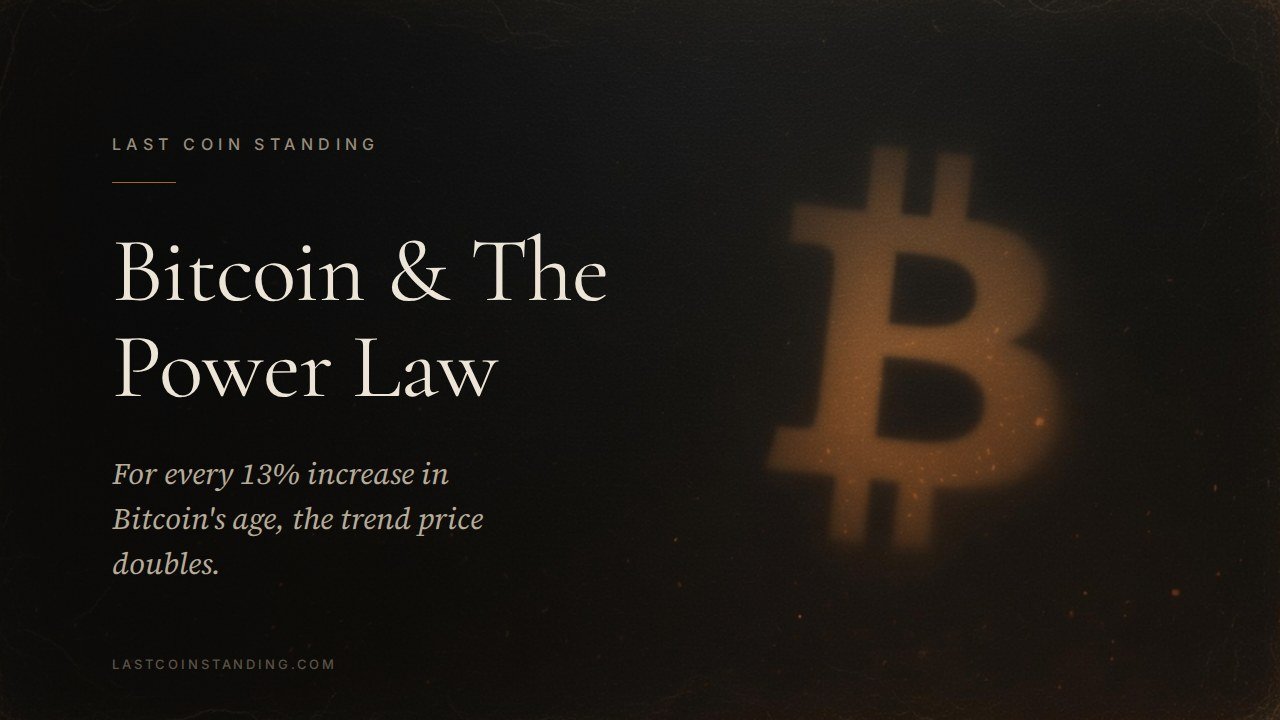
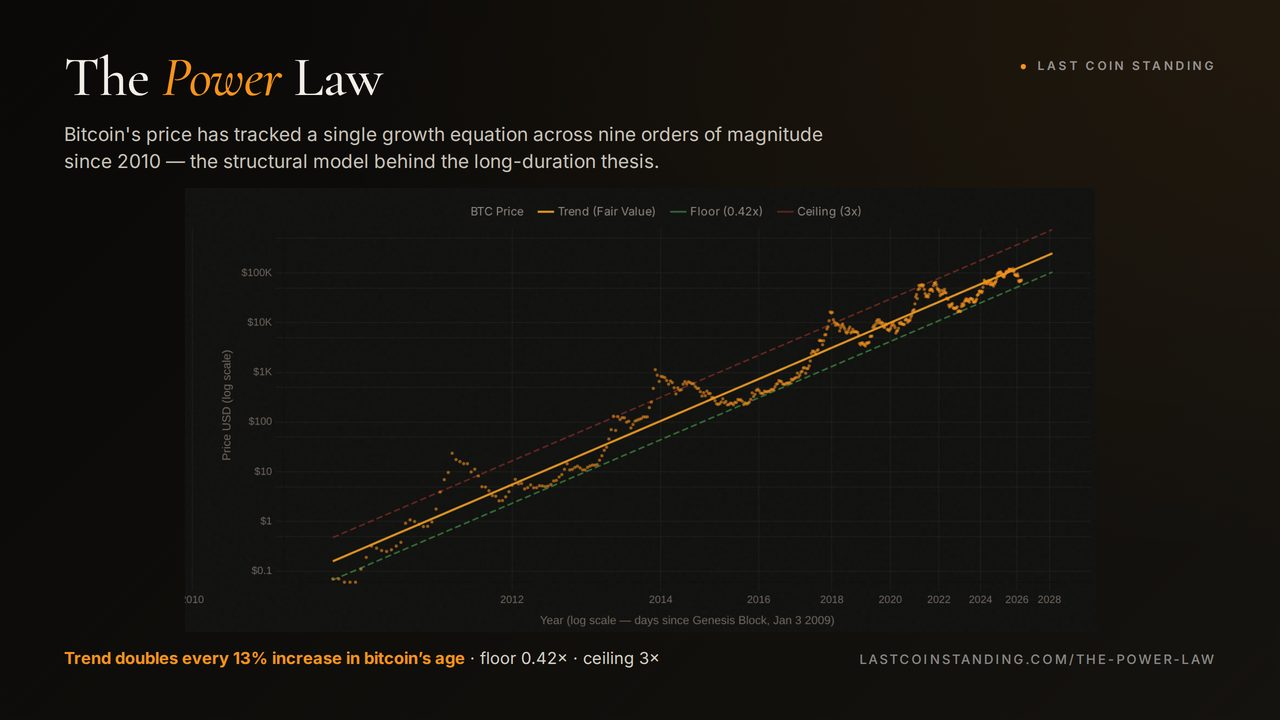
OG cards: 4 product-forward upgrades + LoB meta + cleanup
JM going on an x.com Space later today. Audit found one real gap (LoB
missing og:image entirely) plus three pages JM specifically wanted
upgraded from brand-forward to product-forward (data-card) cards to
match the Heatmap and Bitcoin-vs-Stock-Market treatment. Bitcoin
Retirement was on the original shortlist but turned out to already be
product-forward (the build script's existing card list), so dropped
from this commit.

NEW PRODUCT-FORWARD OG CARDS (4)

og-the-power-law.jpg
  Hero: #powerLawChart — the canonical log-log Power Law channel chart
  with 15 years of price data, regression line, floor (0.42×), and
  ceiling (3×) corridors. Subtitle frames the structural thesis.
  Stats line: "Trend doubles every 13% increase in bitcoin's age ·
  floor 0.42× · ceiling 3×".

og-bitcoin-vs-real-estate.jpg
  Hero: #eraBarChart — five monetary eras of home-price-to-income
  ratio from gold standard (~2×) through late fiat (~5×), with a
  "2025 → ?" red placeholder. Green sound-money / yellow transition /
  red fiat color story reads instantly.
  Stats line: "1890–2025 · home-price-to-income across five monetary
  eras".
  NOTE: requires clicking Tab IV (Affordability Crisis) before
  screenshot — see click_before_capture below.

og-living-on-bitcoin.jpg
  Hero: #lobChart — the calculator's BTC float vs USD float chart
  with the drawdown-stress-test dashed line dipping at year 3 and
  recovering by year 5. Shows the daily-practice case at five-year
  horizon.
[…]

diff --git a/src/_includes/_pageassets/living-on-bitcoin-head.html b/src/_includes/_pageassets/living-on-bitcoin-head.html
@@ -13,9 +13,16 @@
 <meta property="og:url" content="https://lastcoinstanding.com/living-on-bitcoin.html">
 <meta property="og:title" content="Living on Bitcoin — Last Coin Standing">
 <meta property="og:description" content="Holding operating cash in bitcoin and paying fiat bills as they come due. A values-aligned practice with modest economics and real friction.">
+<meta property="og:image" content="https://lastcoinstanding.com/og-living-on-bitcoin.jpg">
+<meta property="og:image:width" content="1280">
+<meta property="og:image:height" content="720">
+<meta property="og:image:type" content="image/jpeg">
+<meta property="og:image:alt" content="BTC operating-cash float vs. USD baseline over five years — BTC grows along the Power Law trend, USD stays flat, and the drawdown-stress-test line dips and recovers.">
 <meta name="twitter:card" content="summary_large_image">
 <meta name="twitter:title" content="Living on Bitcoin — Last Coin Standing">
 <meta name="twitter:description" content="Holding operating cash in bitcoin and paying fiat bills as they come due. A values-aligned practice with modest economics and real friction.">
+<meta name="twitter:image" content="https://lastcoinstanding.com/og-living-on-bitcoin.jpg">
+<meta name="twitter:image:alt" content="BTC operating-cash float vs. USD baseline over five years — Power Law projection with drawdown stress test.">
 <link rel="preconnect" href="https://fonts.googleapis.com">
 <link rel="preconnect" href="https://fonts.gstatic.com" crossorigin>
 <link href="https://fonts.googleapis.com/css2?family=Cormorant+Garamond:ital,wght@0,400;0,500;0,600;0,700;1,400;1,500&family=Inter:ital,wght@0,400;0,500;0,600;0,700;1,400;1,500&family=Source+Serif+4:ital,wght@1,400&display=swap" rel="stylesheet">

diff --git a/scripts/build-og-images.py b/scripts/build-og-images.py
@@ -318,6 +318,88 @@ CARDS = [
         },
         "output_filename": "og-calculators.jpg",
     },
+    {
+        "name": "power-law",
+        "url": "https://lastcoinstanding.com/the-power-law",
+        "hero_selector": "#powerLawChart",
+        "wait_after_navigate_ms": 1500,
+        "wait_after_scroll_ms": 3500,
+        "chrome": {
+            "title": "The ",
+            "titleAccent": "Power",
+            "titleAfter": " Law",
+            "subtitle": "Bitcoin's price has tracked a single growth equation across nine orders of magnitude since 2010 — the structural model behind the long-duration thesis.",
+            "statsHTML": (
+                '<strong style="color:#F7931A; font-weight:700;">Trend doubles every 13% increase in bitcoin&rsquo;s age</strong>'
+                '  ·  floor 0.42&times;  ·  ceiling 3&times;'
+            ),
+            "urlText": "lastcoinstanding.com/the-power-law",
+        },
+        "output_filename": "og-the-power-law.jpg",
+    },
+    {
+        "name": "bvre",
+        "url": "https://lastcoinstanding.com/bitcoin-vs-real-estate",
+        "hero_selector": "#eraBarChart",
+        # eraBarChart sits inside the "Affordability Crisis" tab (Tab IV), not
+        # the default. Click that tab first to make the panel visible.
+        "click_before_capture": "button.tab-btn[data-tab='crisis']",
+        "wait_after_navigate_ms": 1500,
+        "wait_after_scroll_ms": 3500,
+        "chrome": {
+            "title": "",
+            "titleAccent": "Bitcoin",
+            "titleAfter": " vs. Real Estate",
+            "subtitle": "135 years of US housing affordability — and what changed when the dollar&rsquo;s monetary regime did. Homes priced in real money tell a different story.",
+            "statsHTML": (
+                '<strong style="color:#F7931A; font-weight:700;">1890–2025</strong>'
+                '  ·  home-price-to-income across five monetary eras'
+            ),
+            "urlText": "lastcoinstanding.com/bitcoin-vs-real-estate",
+        },
+        "output_filename": "og-bitcoin-vs-real-estate.jpg",
+    },
+    {
+        "name": "lob",
+        "url": "https://lastcoinstanding.com/living-on-bitcoin",
+        "hero_selector": "#lobChart",
+        # lobChart sits inside the "Calculator" tab (Tab III), not the default.
+        # Click that tab first to make the panel visible.
+        "click_before_capture": "button.tab-btn[data-tab='calculator']",
+        "wait_after_navigate_ms": 1500,
+        "wait_after_scroll_ms": 3500,
+        "chrome": {
+            "title": "Living on ",
+            "titleAccent": "Bitcoin",
+            "titleAfter": "",
+            "subtitle": "Holding operating cash in bitcoin and paying fiat bills as they come due — modest economics, real friction, and the psychological payoff.",
+            "statsHTML": (
+                '<strong style="color:#F7931A; font-weight:700;">Power Law projection</strong>'
+                '  ·  BTC float vs. USD float  ·  drawdown stress test'
+            ),
+            "urlText": "lastcoinstanding.com/living-on-bitcoin",
+        },
+        "output_filename": "og-living-on-bitcoin.jpg",
+    },
+    {
+        "name": "bbm",
+        "url": "https://lastcoinstanding.com/bitcoin-backed-mortgages",
+        "hero_selector": "#bbmWealthChart",
+        "wait_after_navigate_ms": 1500,
+        "wait_after_scroll_ms": 3500,
+        "chrome": {
+            "title": "Bitcoin-Backed ",
+            "titleAccent": "Mortgages",
+            "titleAfter": "",
+            "subtitle": "Pledge bitcoin instead of selling it to fund a home down-payment — Fannie-Mae-conforming, no margin call, and when it may make sense.",
+            "statsHTML": (
+                '<strong style="color:#F7931A; font-weight:700;">Pledge vs. Sell</strong>'
+                '  ·  cumulative cost over time  ·  crossover marked'
+            ),
+            "urlText": "lastcoinstanding.com/bitcoin-backed-mortgages",
+        },
+        "output_filename": "og-bitcoin-backed-mortgages.jpg",
+    },
 ]
 
 
@@ -349,6 +431,15 @@ def build_card(page, card_config: dict, output_path: Path) -> None:
         raise RuntimeError(
             f"hero selector not found on page: {card_config['hero_selector']}")
     page.wait_for_timeout(card_config["wait_after_navigate_ms"])
+
+    # Optional: click an element before capture (e.g. a tab button to reveal
+    # the hero chart on a tabbed page). The chart panel must become visible
+    # before scroll_into_view_if_needed will succeed.
+    click_selector = card_config.get("click_before_capture")
+    if click_selector:
+        print(f"  click {click_selector}")
+        page.click(click_selector)
+        page.wait_for_timeout(900)  # tab transition + chart render
 
     # 1. Capture hero element as a PNG
     hero_png = capture_hero_png(